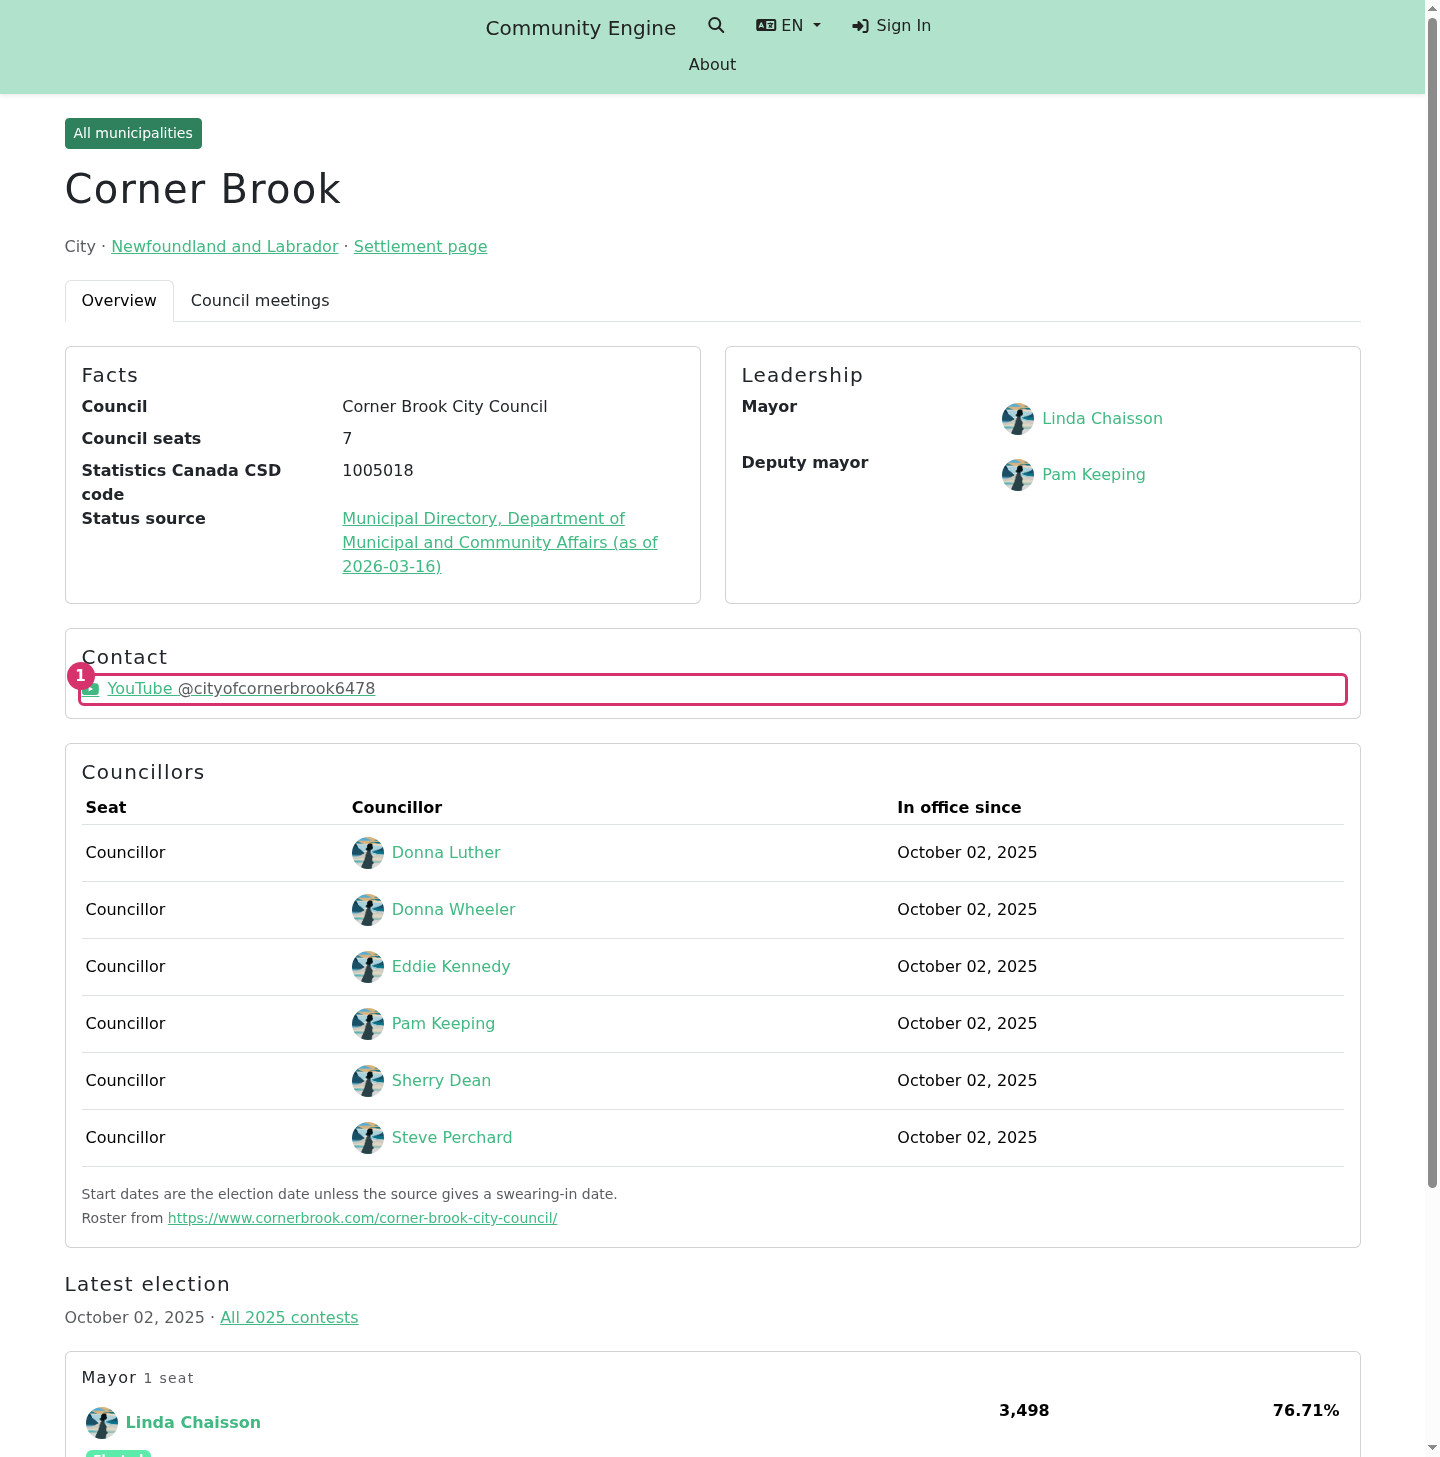
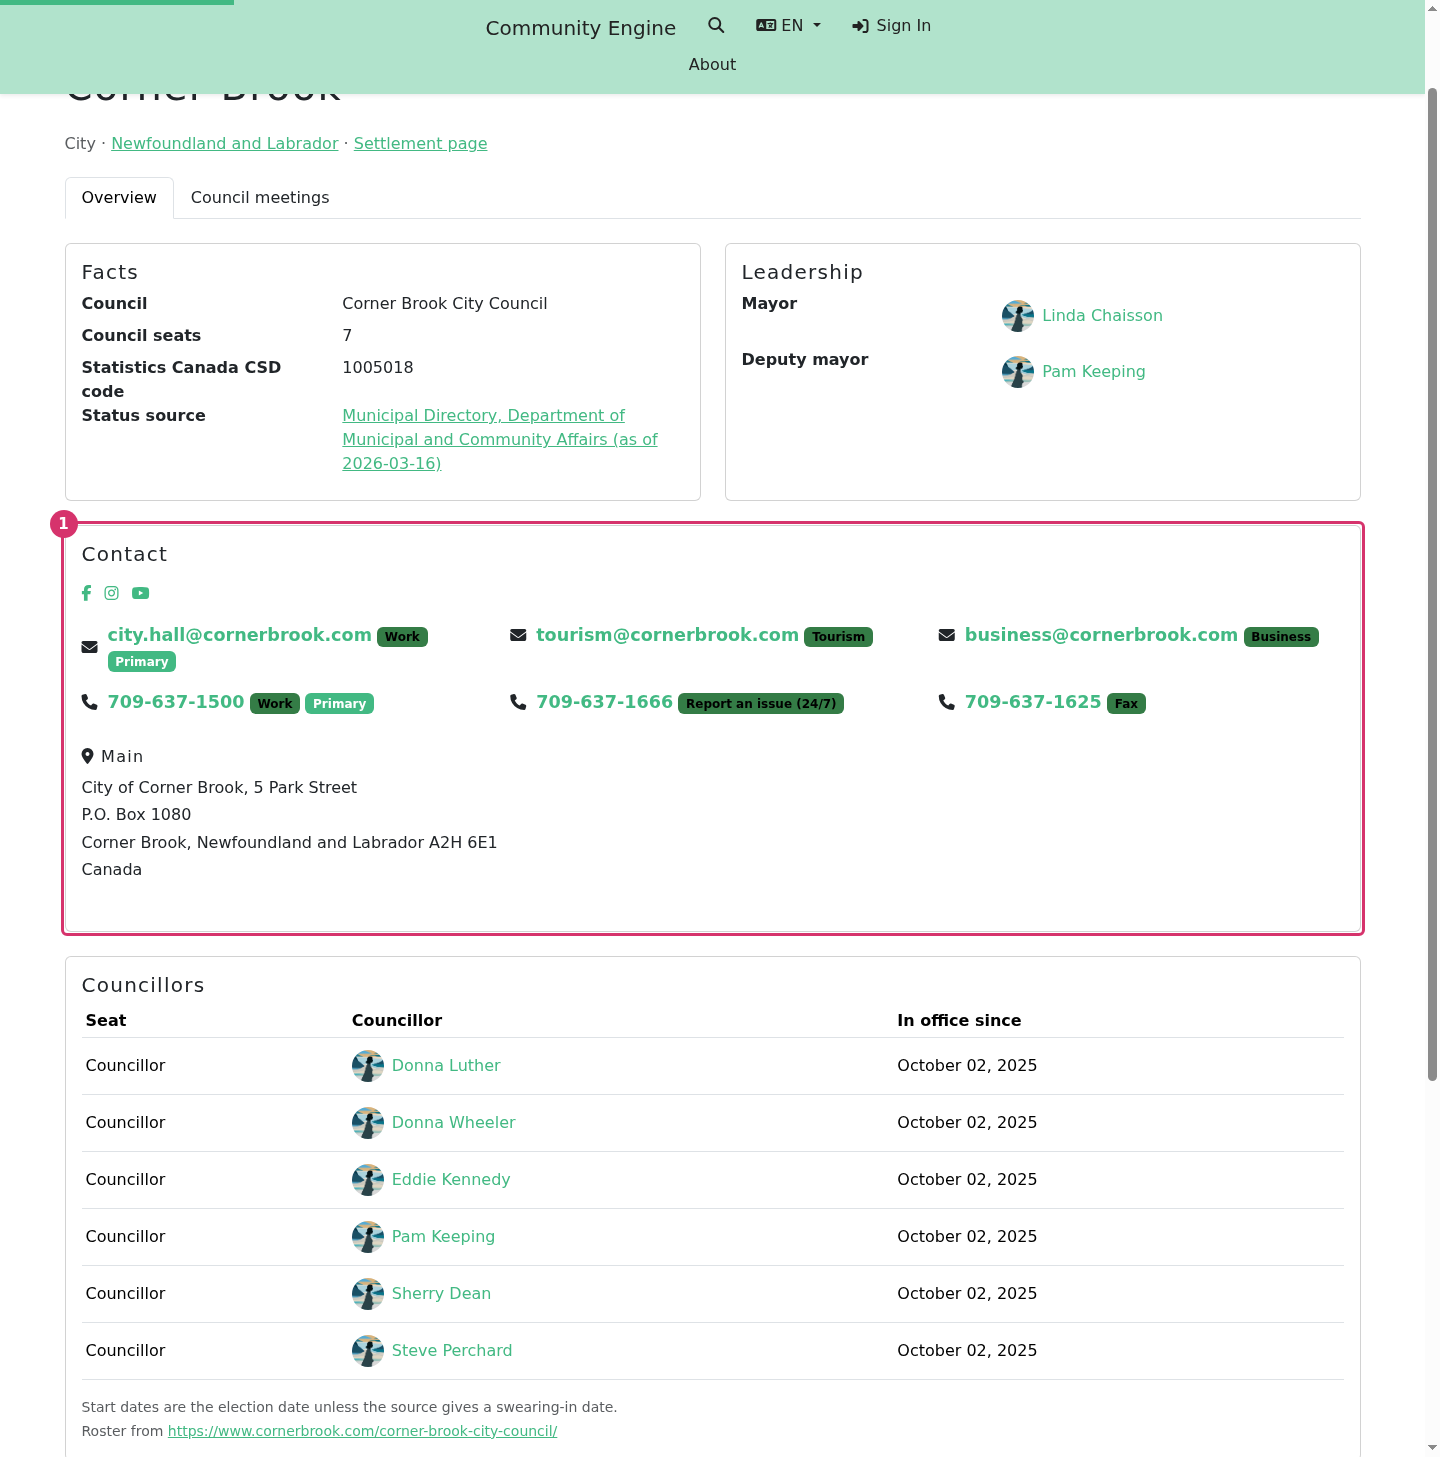
feat(municipalities): show council contact details through the CE partials
Replaces the custom social card with CE's render_contact_details so address,
phone, email and social accounts show together. MunicipalContactLoader
(nlo:municipal:load_contacts, dry run unless APPLY=1) loads the City of Corner
Brook's published organisational contact details from
db/data/nl_municipal/contact_details.json; idempotent, all public.

diff --git a/spec/services/newfoundland_labrador_online/civic/municipal_contact_loader_spec.rb b/spec/services/newfoundland_labrador_online/civic/municipal_contact_loader_spec.rb
@@ -2,7 +2,7 @@
 
 require 'rails_helper'
 
-RSpec.describe NewfoundlandLabradorOnline::Civic::MunicipalSocialAccountLoader do
+RSpec.describe NewfoundlandLabradorOnline::Civic::MunicipalContactLoader do
   include RequestSpecHelper
 
   before do
@@ -10,43 +10,55 @@ RSpec.describe NewfoundlandLabradorOnline::Civic::MunicipalSocialAccountLoader d
     NewfoundlandLabradorOnline::Civic::MunicipalRosterLoader.new(path: write(roster), apply: true).call
   end
 
-  after { Dir[Rails.root.join("tmp/social_spec_#{Process.pid}_*.json")].each { |file| FileUtils.rm_f(file) } }
+  after { Dir[Rails.root.join("tmp/contact_spec_#{Process.pid}_*.json")].each { |file| FileUtils.rm_f(file) } }
 
   let!(:settlement) { create(:geography_settlement, name: 'Testville') }
   let(:roster) do
     { 'councils' => [{ 'settlement' => settlement.slug, 'council_name' => 'Testville Council', 'officials' => [] }] }
   end
-  let(:url) { 'https://www.youtube.com/@testville' }
   let(:council) { NewfoundlandLabradorOnline::Civic::Municipality.for(settlement).council }
 
   def write(packet)
-    Rails.root.join("tmp/social_spec_#{Process.pid}_#{SecureRandom.hex(4)}.json").tap do |file|
+    Rails.root.join("tmp/contact_spec_#{Process.pid}_#{SecureRandom.hex(4)}.json").tap do |file|
       File.write(file, packet.to_json)
     end
   end
 
-  def run(apply: true, slug: settlement.slug, address: url)
-    entry = { 'settlement' => slug, 'platform' => 'YouTube', 'handle' => '@testville', 'url' => address }
-    described_class.new(path: write('accounts' => [entry]), apply:).call
+  def entry(slug: settlement.slug, url: 'https://www.youtube.com/@testville')
+    { 'settlement' => slug,
+      'addresses' => [{ 'label' => 'main', 'line1' => '1 Main Street', 'city_name' => 'Testville',
+                        'postal_code' => 'A1A 1A1', 'physical' => true, 'postal' => true }],
+      'phone_numbers' => [{ 'number' => '709-555-0100', 'label' => 'work' },
+                          { 'number' => '709-555-0101', 'label' => 'Report an issue (24/7)' }],
+      'email_addresses' => [{ 'email' => 'hall@example.test', 'label' => 'work' }],
+      'social_media_accounts' => [{ 'platform_name' => 'YouTube', 'handle' => '@testville', 'url' => url }] }
+  end
+
+  def run(apply: true, **)
+    described_class.new(path: write('contacts' => [entry(**)]), apply:).call
   end
 
   it 'writes nothing on a dry run', :aggregate_failures do
-    expect(run(apply: false).created).to eq(["#{settlement.slug}/YouTube"])
-    expect(BetterTogether::SocialMediaAccount.count).to eq(0)
+    expect(run(apply: false).created.size).to eq(5)
+    expect(BetterTogether::PhoneNumber.count + BetterTogether::SocialMediaAccount.count).to eq(0)
   end
 
-  it 'attaches a public account to the council contact detail', :aggregate_failures do
+  # rubocop:disable-next RSpec/ExampleLength
+  it 'attaches public records to the council contact detail', :aggregate_failures do
     run
 
-    account = council.social_media_accounts.first
-    expect(account).to have_attributes(platform_name: 'YouTube', url:, handle: '@testville', privacy: 'public')
+    expect(council.phone_numbers.find_by(number: '709-555-0100')).to have_attributes(label: 'work', privacy: 'public')
+    expect(council.phone_numbers.map(&:display_label)).to include('Report an issue (24/7)')
+    expect(council.email_addresses.first.email).to eq('hall@example.test')
+    expect(council.addresses.first).to have_attributes(line1: '1 Main Street', privacy: 'public')
+    expect(council.social_media_accounts.first).to have_attributes(platform_name: 'YouTube', handle: '@testville')
   end
 
-  it 'is idempotent and updates a changed url', :aggregate_failures do
+  it 'is idempotent and updates a changed value', :aggregate_failures do
     run
 
-    expect(run.unchanged).to eq(["#{settlement.slug}/YouTube"])
-    expect(run(address: 'https://www.youtube.com/@renamed').updated).to eq(["#{settlement.slug}/YouTube"])
+    expect(run.unchanged.size).to eq(5)
+    expect(run(url: 'https://www.youtube.com/@renamed').updated.size).to eq(1)
     expect(council.social_media_accounts.count).to eq(1)
   end
 

diff --git a/app/services/newfoundland_labrador_online/civic/municipal_contact_loader.rb b/app/services/newfoundland_labrador_online/civic/municipal_contact_loader.rb
@@ -4,11 +4,16 @@ require 'json'
 
 module NewfoundlandLabradorOnline
   module Civic
-    # Attaches a municipality's public social accounts (CE SocialMediaAccount) to its council's contact detail, from
-    # an offline packet (db/data/nl_municipal). A dry run (the default) rolls everything back, so the counts are what
-    # an apply would do. Idempotent: accounts are matched on council and platform.
-    class MunicipalSocialAccountLoader
-      DEFAULT_PATH = Rails.root.join('db/data/nl_municipal/social_accounts.json')
+    # Loads a municipality's published organisational contact details (addresses, phone numbers, email addresses and
+    # social accounts, all CE records) onto its council's contact detail, from an offline packet
+    # (db/data/nl_municipal). Organisation details only, never individual staff or councillors. A dry run (the
+    # default) rolls everything back, so the counts are what an apply would do. Idempotent: each record is matched on
+    # its natural key, and a changed value updates in place. Everything loaded is public.
+    class MunicipalContactLoader
+      DEFAULT_PATH = Rails.root.join('db/data/nl_municipal/contact_details.json')
+      # Association on the contact detail => the attribute that identifies a record within it.
+      KINDS = { 'addresses' => 'line1', 'phone_numbers' => 'number', 'email_addresses' => 'email',
+                'social_media_accounts' => 'platform_name' }.freeze
       Result = Struct.new(:created, :updated, :unchanged, :missing_councils, keyword_init: true)
 
       def initialize(path: DEFAULT_PATH, apply: false)
@@ -18,9 +23,9 @@ module NewfoundlandLabradorOnline
       end
 
       def call
-        entries = JSON.parse(File.read(@path)).fetch('accounts')
+        entries = JSON.parse(File.read(@path)).fetch('contacts')
         ActiveRecord::Base.transaction do
-          Civic.in_platform_zone { entries.each { |entry| load_account(entry) } }
+          Civic.in_platform_zone { entries.each { |entry| load_contact(entry) } }
           raise ActiveRecord::Rollback unless @apply
         end
         @result
@@ -28,24 +33,28 @@ module NewfoundlandLabradorOnline
 
       private
 
-      def load_account(entry)
-        council = council_for(entry.fetch('settlement'))
-        return @result.missing_councils << entry.fetch('settlement') unless council
+      def load_contact(entry)
+        slug = entry.fetch('settlement')
+        council = council_for(slug)
+        return @result.missing_councils << slug unless council
 
-        accounts = council.contact_detail.social_media_accounts
-        account = accounts.find_or_initialize_by(platform_name: entry.fetch('platform'))
-        label = "#{entry.fetch('settlement')}/#{account.platform_name}"
-        account.assign_attributes(handle: entry['handle'], url: entry.fetch('url'), privacy: 'public')
-        record(account, label)
+        KINDS.each do |kind, key|
+          entry.fetch(kind, []).each { |attrs| upsert(council.contact_detail.public_send(kind), key, attrs, slug) }
+        end
       end
 
-      def record(account, label)
-        bucket = if account.new_record? then :created
-                 elsif account.changed? then :updated
-                 else :unchanged
-                 end
-        account.save! unless bucket == :unchanged
-        @result[bucket] << label
+      def upsert(records, key, attrs, slug)
+        record = records.find_or_initialize_by(key => attrs.fetch(key))
+        record.assign_attributes(attrs.merge('privacy' => 'public'))
+        bucket = bucket_for(record)
+        record.save! unless bucket == :unchanged
+        @result[bucket] << "#{slug}/#{attrs.fetch(key)}"
+      end
+
+      def bucket_for(record)
+        return :created if record.new_record?
+
+        record.changed? ? :updated : :unchanged
       end
 
       def council_for(slug)

diff --git a/spec/dom_contracts/municipality_pages_spec.rb b/spec/dom_contracts/municipality_pages_spec.rb
@@ -38,17 +38,18 @@ RSpec.describe 'Municipality pages', type: :request do
     expect(response.body).to include('Danny Breen', 'Ron Ellsworth', 'Ward 5', '15,216', '56.74%')
   end
 
-  it 'shows the council social accounts as contact details once loaded', :aggregate_failures do
+  it 'shows the council contact details through the CE partials once loaded', :aggregate_failures do
     get "/#{locale}/e/municipalities/nl/corner-brook"
     expect(response.body).not_to include('id="municipality-contact"')
 
-    NewfoundlandLabradorOnline::Civic::MunicipalSocialAccountLoader.new(apply: true).call
+    NewfoundlandLabradorOnline::Civic::MunicipalContactLoader.new(apply: true).call
     get "/#{locale}/e/municipalities/nl/corner-brook"
 
     body = response.body
-    expect(body).to include('id="municipality-contact"', 'id="municipality-social-accounts"',
-                            'href="https://www.youtube.com/@cityofcornerbrook6478"', 'rel="noopener noreferrer"',
-                            'fa-youtube', 'aria-hidden="true"', '(opens in a new tab)')
+    expect(body).to include('id="municipality-contact"', 'contactable-addresses', 'contactable-phone-numbers',
+                            'contactable-email-addresses', 'contactable-social-media-links', '5 Park Street',
+                            'A2H 6E1', 'href="tel:709-637-1500"', 'Report an issue (24/7)', 'city.hall@cornerbrook.com',
+                            'href="https://www.youtube.com/@cityofcornerbrook6478"', 'rel="noopener"')
     expect(body.index('id="municipality-leaders"')).to be < body.index('id="municipality-contact"')
     expect(body.index('id="municipality-contact"')).to be < body.index('id="council-members"')
   end

diff --git a/spec/docs_screenshots/municipalities_spec.rb b/spec/docs_screenshots/municipalities_spec.rb
@@ -41,11 +41,11 @@ RSpec.describe 'Documentation screenshots for municipalities', :js, type: :featu
     expect(captured('municipalities_index', callouts)).to all(be > 10_000)
   end
 
-  it 'captures the Corner Brook contact details with the YouTube account' do
-    NewfoundlandLabradorOnline::Civic::MunicipalSocialAccountLoader.new(apply: true).call
+  it 'captures the Corner Brook contact details with phone, email, address and social accounts' do
+    NewfoundlandLabradorOnline::Civic::MunicipalContactLoader.new(apply: true).call
     visit "/#{locale}/e/municipalities/nl/corner-brook"
 
-    callouts = [{ selector: '#municipality-social-accounts', title: 'Public YouTube channel with icon and text' }]
+    callouts = [{ selector: '#municipality-contact', title: 'City hall contact details from the CE partials' }]
 
     expect(captured('municipality_contact', callouts, scroll_to: '#municipality-contact')).to all(be > 10_000)
   end

diff --git a/app/helpers/newfoundland_labrador_online/municipalities_helper.rb b/app/helpers/newfoundland_labrador_online/municipalities_helper.rb
@@ -5,11 +5,6 @@ module NewfoundlandLabradorOnline
   module MunicipalitiesHelper
     WARD_COLORS = %w[#e07b39 #3b8ea5 #7a9e3f #a259a2 #c9a227].freeze
 
-    # The council's public social accounts, shown with the municipality's contact details.
-    def municipality_social_accounts(municipality)
-      municipality.council.social_media_accounts.privacy_public.order(:platform_name).to_a
-    end
-
     def ward_map(municipality)
       identifier = "wards-#{municipality.settlement.identifier}"
       NewfoundlandLabradorOnline::WardMap.new(identifier:)
